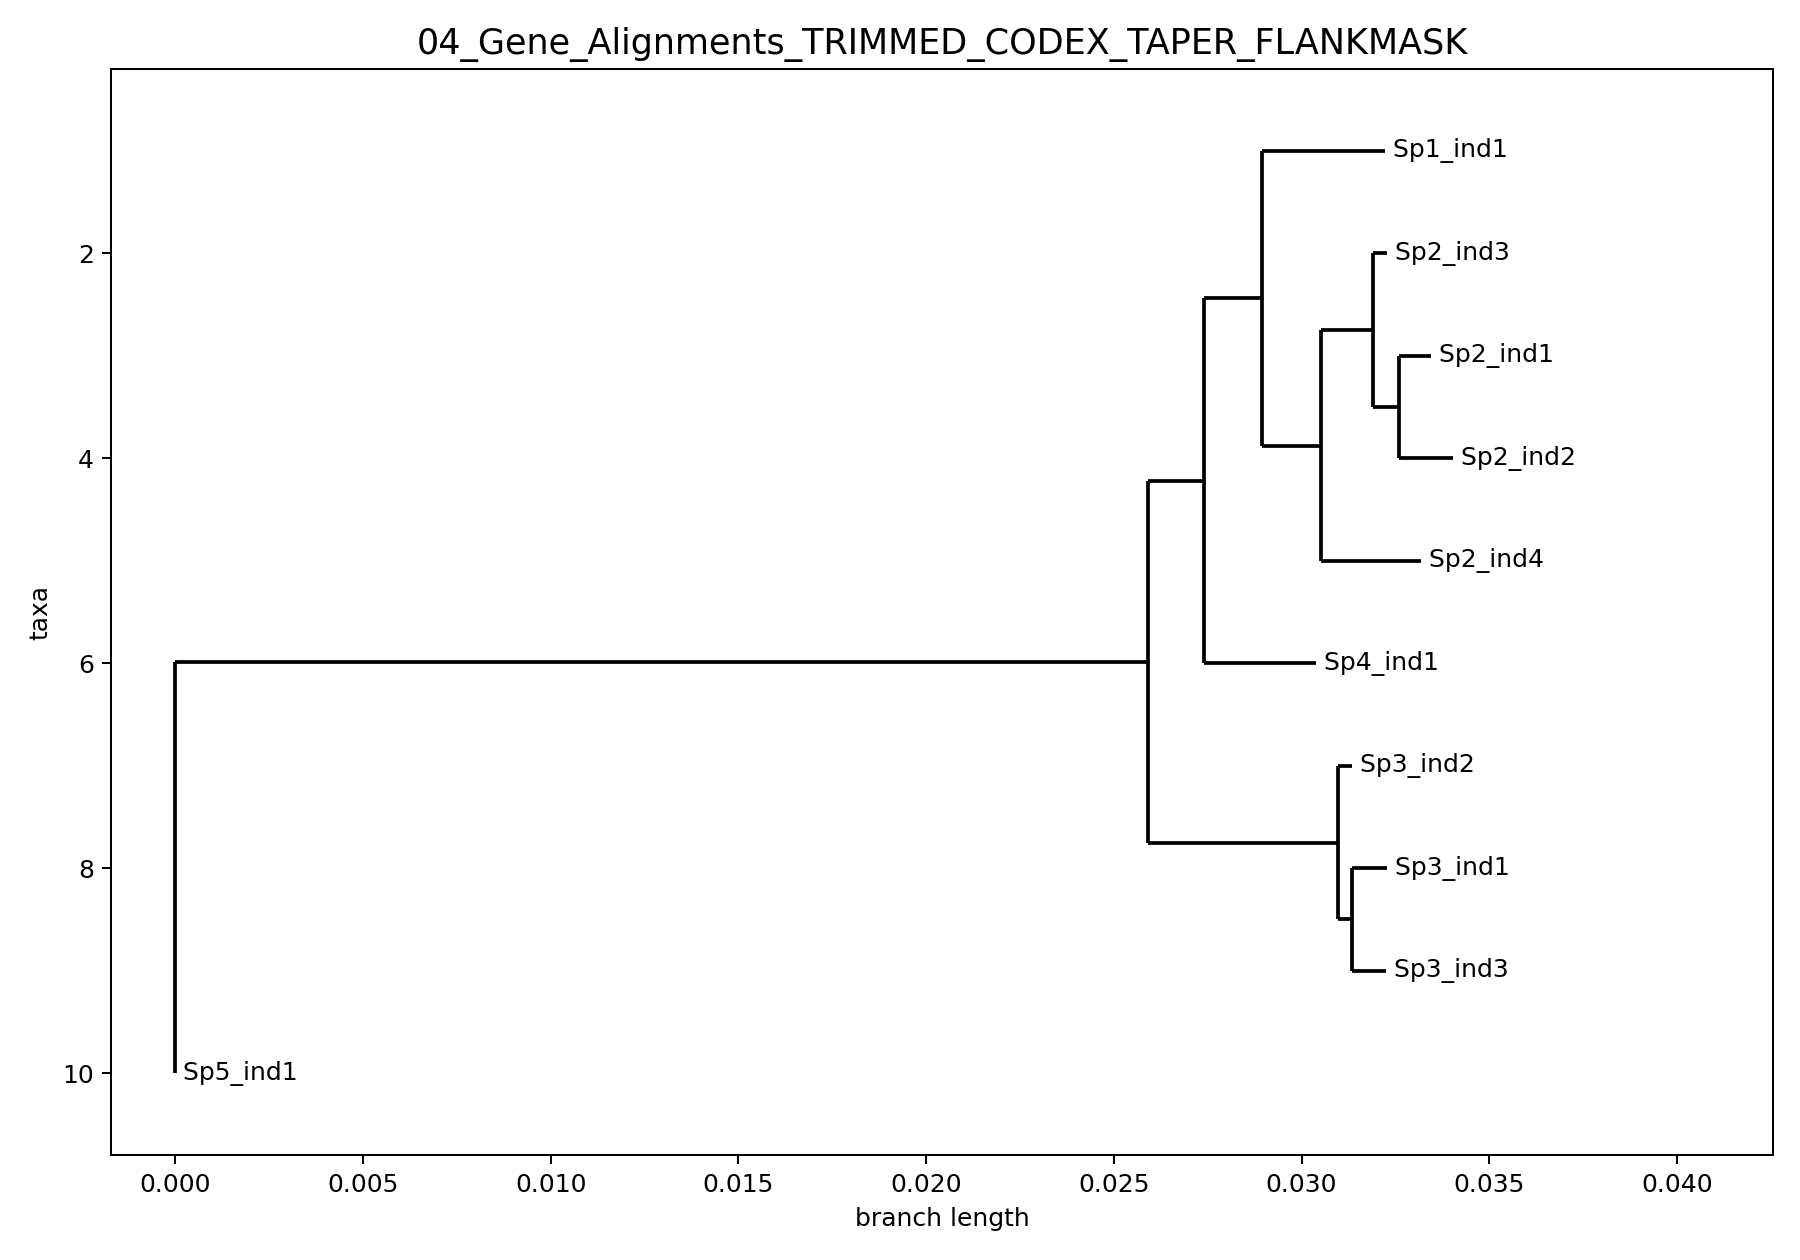
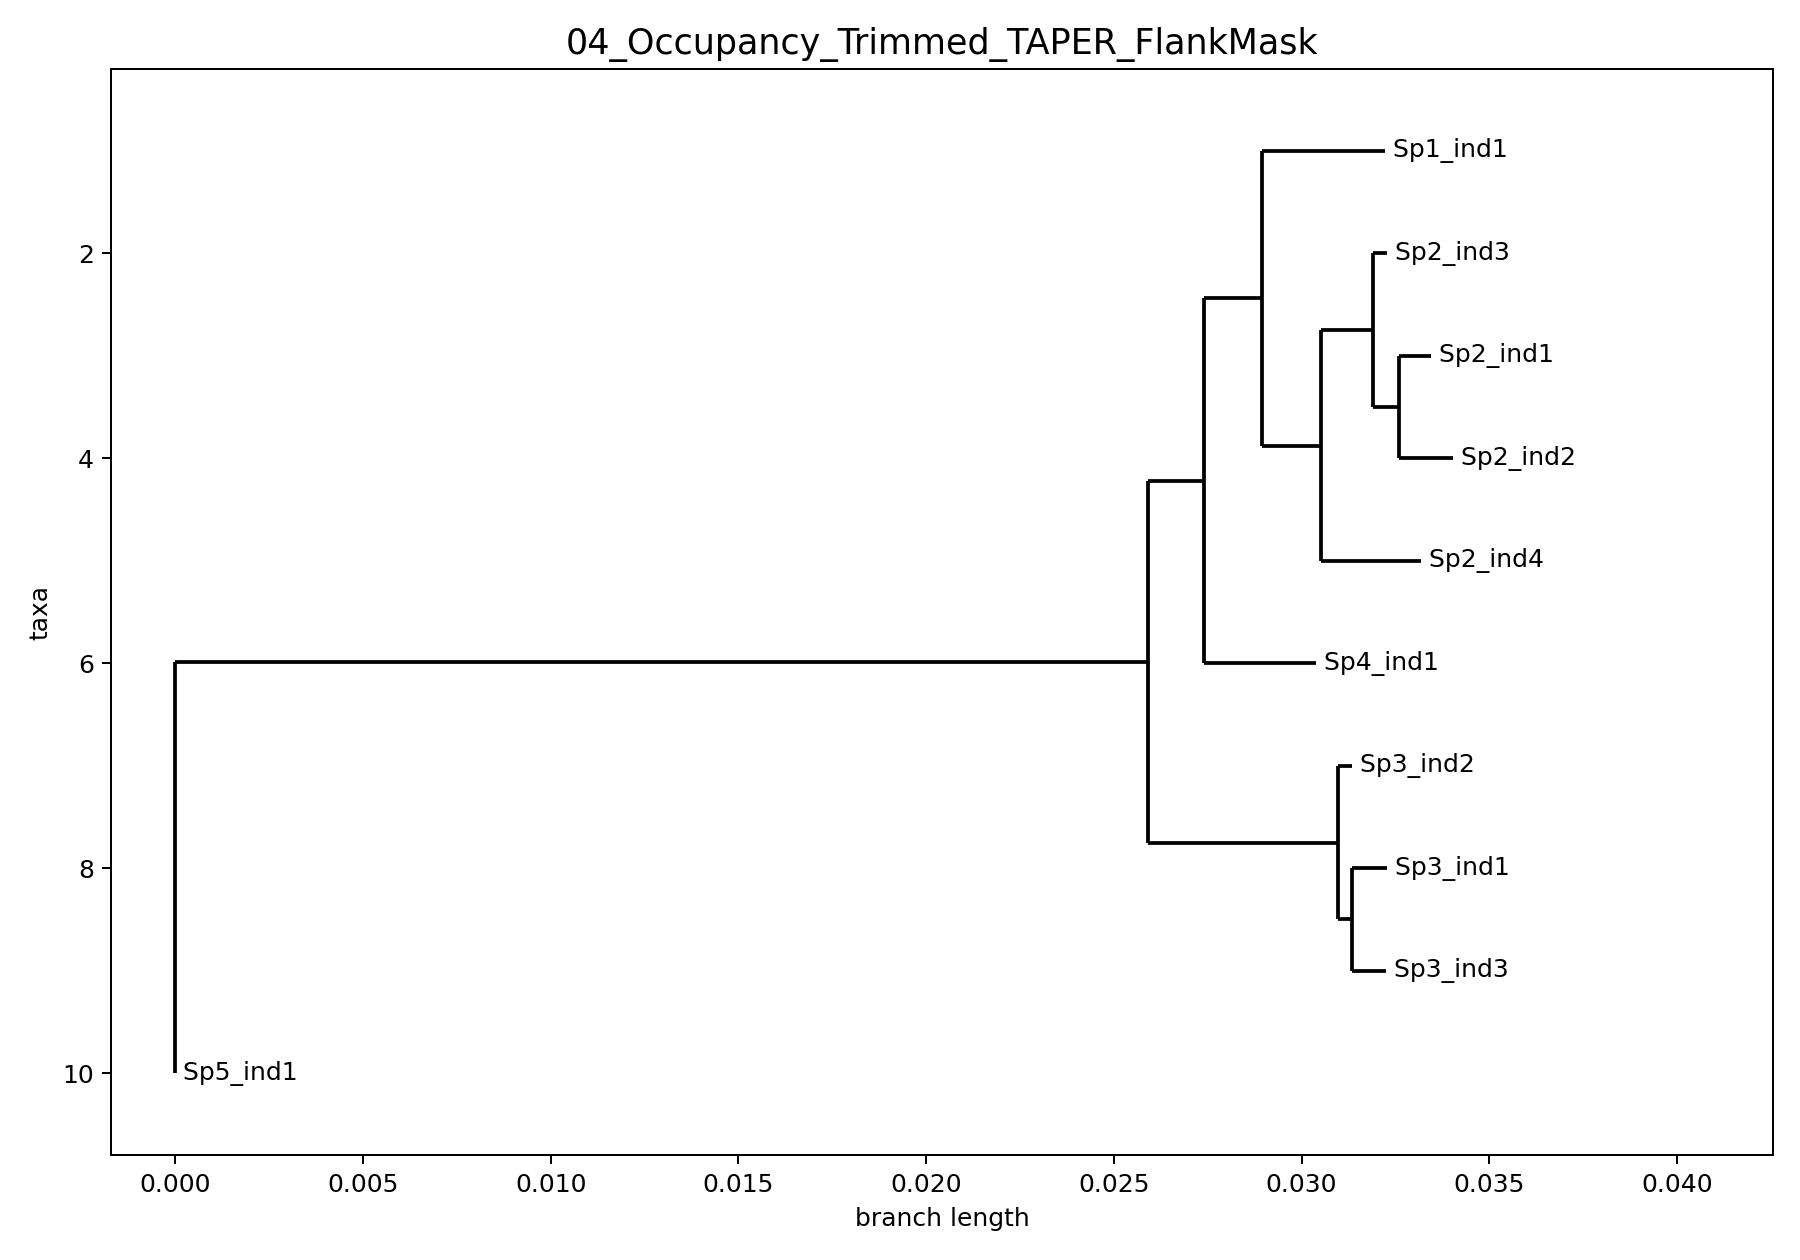
Rename CODEX trim to Occupancy Trim

Changed region(s): [[0.2489, 0.0, 0.8089, 0.0619]]

diff --git a/docs/pipeline_report.html b/docs/pipeline_report.html
@@ -39,7 +39,7 @@
 
       <h2>Steps</h2>
       <ol>
-        <li>Custom trim: occupancy-based edge trim, short-fragment masking, and keep/drop split.</li>
+        <li>Occupancy Trim: occupancy-based edge trim, short-fragment masking, and keep/drop split.</li>
         <li><code>TAPER</code> at cutoff <code>1.5</code> on the retained loci.</li>
         <li>Custom flank mask on the <code>TAPER</code> output.</li>
       </ol>

diff --git a/README.md b/README.md
@@ -4,7 +4,7 @@ This repository packages a three-step cleanup workflow for locus-by-locus nucleo
 
 The workflow implemented here is:
 
-1. `CODEX trim`: custom terminal trimming + short-fragment masking + locus dropping
+1. `Occupancy Trim`: custom terminal trimming + short-fragment masking + locus dropping
 2. `TAPER`: masking of likely erroneous local alignment regions
 3. `Flank mask`: custom masking of terminal private mismatches / singleton edge junk
 
@@ -28,15 +28,15 @@ These figures use 50 anonymized loci included in this repository. Taxa were rena
 
 ![Step 1 Tree](docs/figures/01_Gene_Alignments_Non-Trimmed.png)
 
-### 2. CODEX Trimmed
+### 2. Occupancy Trimmed
 
 ![Step 2 Tree](docs/figures/02_Gene_Alignments_TRIMMED_CODEX.png)
 
-### 3. CODEX Trimmed + TAPER (`-c 1.5`)
+### 3. Occupancy Trimmed + TAPER (`-c 1.5`)
 
 ![Step 3 Tree](docs/figures/03_Gene_Alignments_TRIMMED_CODEX_TAPER.png)
 
-### 4. CODEX Trimmed + TAPER + Flank Mask
+### 4. Occupancy Trimmed + TAPER + Flank Mask
 
 ![Step 4 Tree](docs/figures/04_Gene_Alignments_TRIMMED_CODEX_TAPER_FLANKMASK.png)
 
